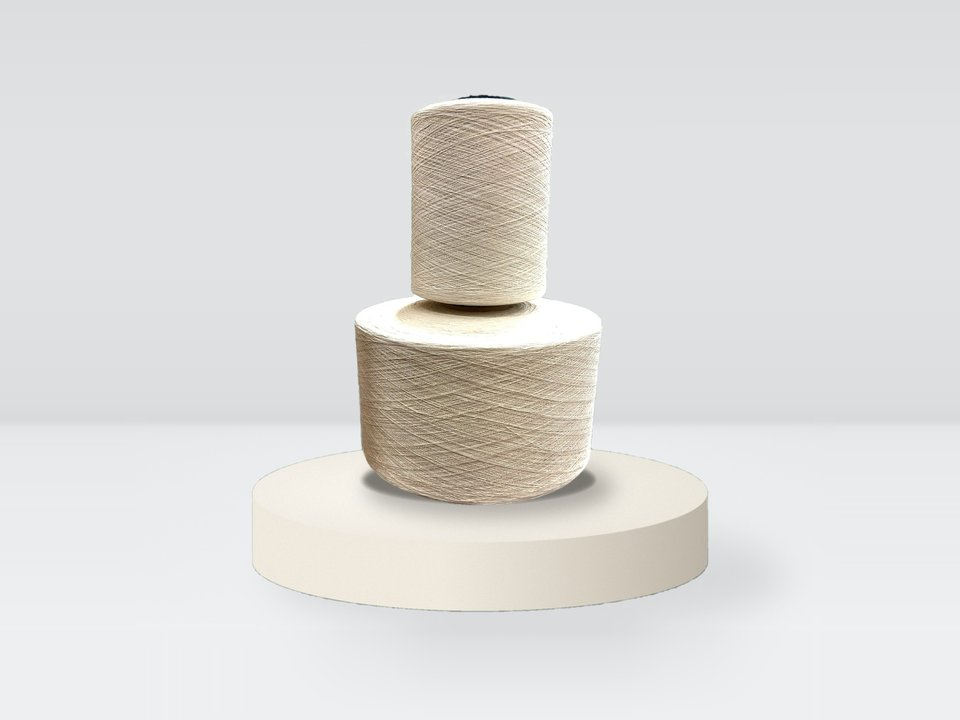
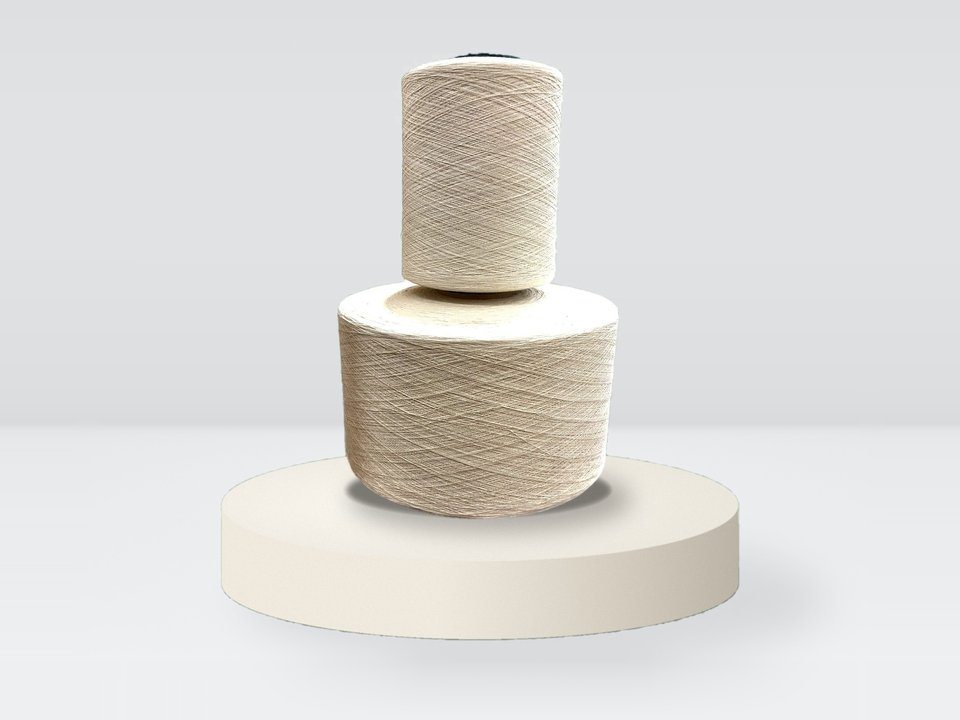
Yarn card photo: zoom in on the cones and podium
Claude-Session: https://claude.ai/code/session_016sCuQqi6TPsQvyxFB8uVLd

Changed region(s): [[0.3438, 0.0611, 0.7812, 0.8861], [0.3125, 0.8556, 0.3438, 0.8861], [0.25, 0.825, 0.2812, 0.8556]]

diff --git a/docs/ru/index.html b/docs/ru/index.html
@@ -95,7 +95,7 @@
         </header>
         <div class="dir-grid">
         <article class="dir-card">
-          <a class="dir-card-media has-photo" href="yarn.html" tabindex="-1" aria-hidden="true"><img src="../assets/img/yarn-card-white.jpg?v=dc385c4f" alt="" loading="lazy"></a>
+          <a class="dir-card-media has-photo" href="yarn.html" tabindex="-1" aria-hidden="true"><img src="../assets/img/yarn-card-white.jpg?v=1ba27699" alt="" loading="lazy"></a>
           <div class="dir-card-body">
             <h3><a href="yarn.html">Производство пряжи</a></h3>
             <p>Хлопчатобумажная пряжа OE Ne 16 и Ne 21 под торговой маркой ALTYN PAMYK.</p>

diff --git a/docs/tk/index.html b/docs/tk/index.html
@@ -95,7 +95,7 @@
         </header>
         <div class="dir-grid">
         <article class="dir-card">
-          <a class="dir-card-media has-photo" href="yarn.html" tabindex="-1" aria-hidden="true"><img src="../assets/img/yarn-card-white.jpg?v=dc385c4f" alt="" loading="lazy"></a>
+          <a class="dir-card-media has-photo" href="yarn.html" tabindex="-1" aria-hidden="true"><img src="../assets/img/yarn-card-white.jpg?v=1ba27699" alt="" loading="lazy"></a>
           <div class="dir-card-body">
             <h3><a href="yarn.html">Ýüplük önümçiligi</a></h3>
             <p>ALTYN PAMYK haryt nyşany bilen OE Ne 16 we Ne 21 pagta ýüplügi.</p>

diff --git a/docs/en/index.html b/docs/en/index.html
@@ -95,7 +95,7 @@
         </header>
         <div class="dir-grid">
         <article class="dir-card">
-          <a class="dir-card-media has-photo" href="yarn.html" tabindex="-1" aria-hidden="true"><img src="../assets/img/yarn-card-white.jpg?v=dc385c4f" alt="" loading="lazy"></a>
+          <a class="dir-card-media has-photo" href="yarn.html" tabindex="-1" aria-hidden="true"><img src="../assets/img/yarn-card-white.jpg?v=1ba27699" alt="" loading="lazy"></a>
           <div class="dir-card-body">
             <h3><a href="yarn.html">Yarn manufacturing</a></h3>
             <p>Open-end cotton yarn Ne 16 and Ne 21 under the ALTYN PAMYK brand.</p>
